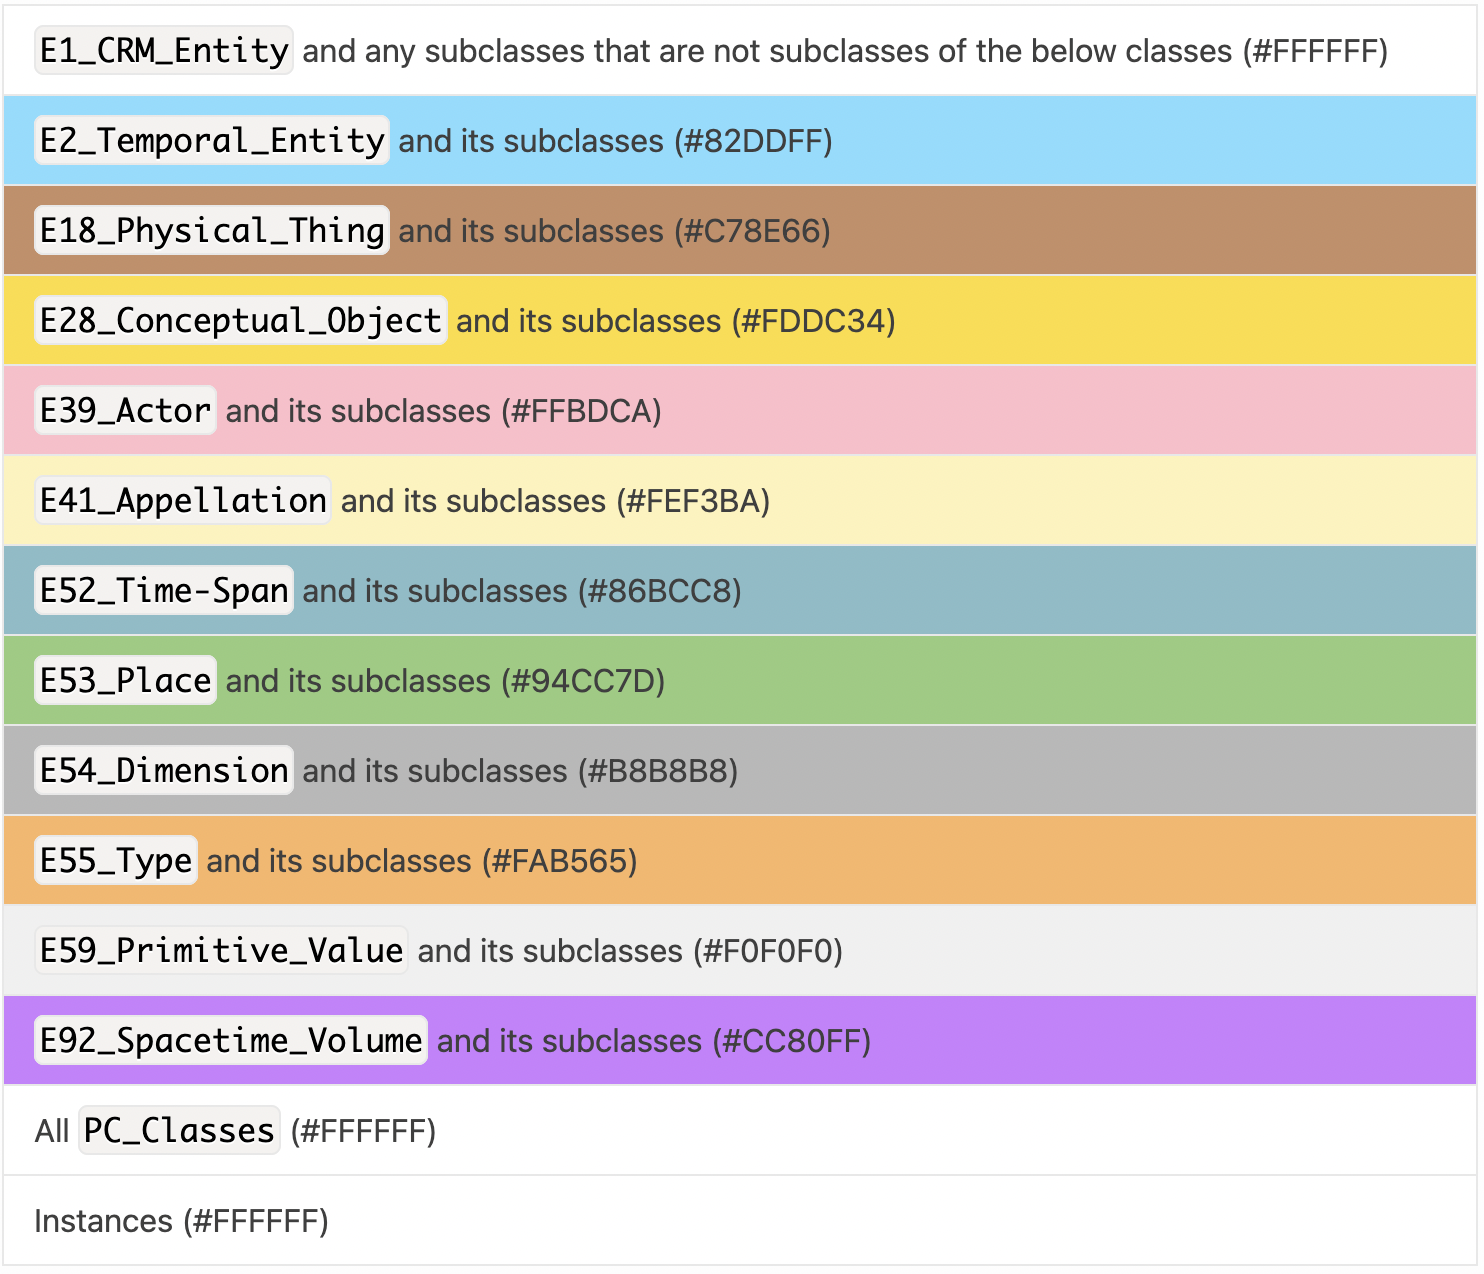
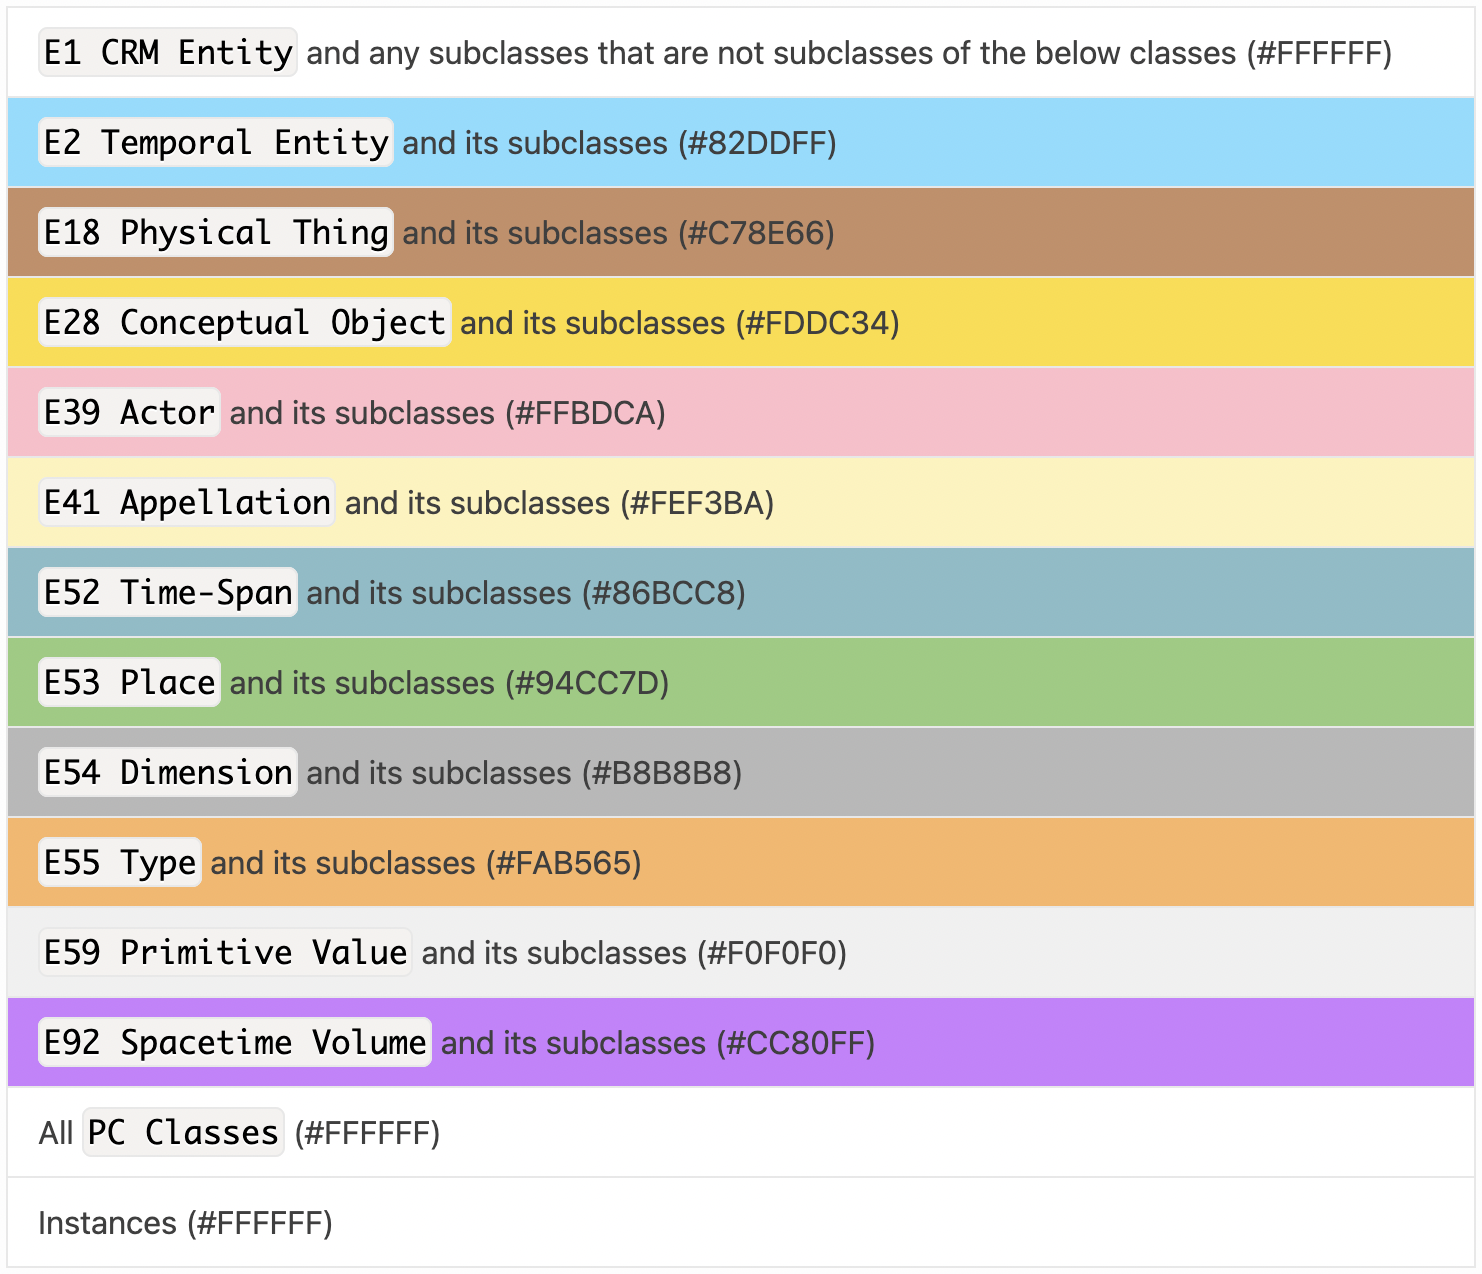
update readme

diff --git a/README.md b/README.md
@@ -32,7 +32,7 @@ An overview of diagrams.net libraries and instructions on how to use them.
 
 ## Context
 
-**[diagrams.net](https://www.diagrams.net/) libraries** is a collection of custom shape library files (.xml) of ontologies used to represent semantic patterns through [diagrams.net](https://www.diagrams.net/). It is maintained by the Canadian Heritage Information Network (CHIN) and used to generate diagrams in the context of its Linked Open Data projects. Currently, CHIN provides seven libraries for the following CIDOC CRM ontologies (i.e. the ones that are officially released in RDFS format). The libraries are of benefit to users who design diagrams for data models that are based on CIDOC CRM.
+**[diagrams.net](https://www.diagrams.net/) libraries** is a collection of custom shape library files (.xml) of ontologies used to represent semantic patterns through [diagrams.net](https://www.diagrams.net/). It is maintained by the Canadian Heritage Information Network (CHIN) and used to generate diagrams in the context of its Linked Open Data projects. Currently, CHIN provides eight libraries for the following CIDOC CRM ontologies (i.e. the ones that are officially released in RDFS format). The libraries are of benefit to users who design diagrams for data models that are based on CIDOC CRM.
 
   - CIDOC CRM base (version 7.1.3): includes two libraries, one with properties' quantification, and one without.
 
@@ -54,7 +54,7 @@ An overview of diagrams.net libraries and instructions on how to use them.
 
 A custom library is a set of pre-designed shapes that can be easily dragged and dropped in the drawing canvas to facilitate the drawing process. It is usually found on the left side panel of the diagrams.net editor.
 
-Each library contains the shapes of all the [classes](https://chin-rcip.github.io/collections-model/en/resources/current/glossary#class-noun) as well as the connectors for the [properties](https://chin-rcip.github.io/collections-model/en/resources/current/glossary#property-noun) of each ontology. The colour scheme (see below) is based on a proposal by George Bruseker for [CIDOC CRM](http://www.cidoc-crm.org/).
+Each library contains the shapes of all the [classes](https://chin-rcip.github.io/collections-model/en/resources/current/glossary#class-noun) as well as the connectors for the [properties](https://chin-rcip.github.io/collections-model/en/resources/current/glossary#property-noun) of each ontology. The colour scheme (see below) is based on a proposal by CIDOC CRM SIG for [CIDOC CRM](http://www.cidoc-crm.org/).
 
 ![](/images/color_en.png)
 
@@ -153,11 +153,92 @@ Once loaded, the library is usually cached by the browser, so there is no need t
 
 Each library contains two types of shapes:
 
-  - Rounded rectangle shapes for classes (each shape is filled with colour, per the colour scheme described above).
+1. Rounded rectangle shapes for classes (each shape is filled with colour, per the colour scheme described above).
 
-  - Black arrows for properties.
+    - Shape:
 
-Each shape has a label based on the CIDOC CRM naming convention, i.e. with an underscore after the entity’s code and between each string (`E2_Temporal_Entity`), and spaces in its title (E2 Temporal Entity) to facilitate the “**Search Shapes**” function located at the top of the left side panel.
+        - Rounded rectangle
+
+        - Border:
+
+            - solid 
+            
+            - black
+            
+            - 1 pt
+        
+        - Width: 140
+
+        - Height: 70 
+
+        - Fill: per the colour scheme described above
+
+    - Text:
+
+        - Font: Helvetica
+
+        - Size: 16
+
+        - Color: black
+
+        - Horizontal align: center
+
+        - Vertical align: middle
+
+        - Weight: bold
+
+        - Word wrap
+
+        - Value: entity name without underscore
+
+    - Data:
+
+        - URI
+        
+        - Labels in available languages
+        
+        - No scope note
+        
+        - Link (clickable)
+
+
+2. Black arrows for properties.
+
+    - Shape:
+
+        - One-way arrow
+
+        - Stroke width: 2 pt
+        
+        - Color: black
+
+    - Text:
+
+        - Font: Helvetica
+
+        - Size: 14
+
+        - Color: black
+
+        - Horizontal align: center
+
+        - Vertical align: middle
+
+        - Weight: bold
+
+        - Background color: white
+
+        - Value: entity name without underscore, quantifications
+
+    - Data:
+
+        - URI
+        
+        - Labels in available languages
+        
+        - No scope note
+        
+        - Link (clickable)
 
 ![](/images/diagrams_net_en_2.png)
 
@@ -234,7 +315,7 @@ Un aperçu des bibliothèques logicielles diagrams.net et explique comment les u
 
 ## Contexte
 
-Les bibliothèques [diagrams.net](https://www.diagrams.net/) constituent un ensemble de fichiers XML d’ontologies qui sert à représenter des patrons conceptuels à l’aide du logiciel [diagrams.net](https://www.diagrams.net/). Tenu à jour par le Réseau canadien d’information sur le patrimoine (RCIP), ces bibliothèques logicielles permettent de créer des diagrammes dans le cadre de projets de données ouvertes et liées. Le RCIP a jusqu’à maintenant créé sept bibliothèques destinées aux ontologies du Modèle conceptuel de référence du Comité international pour la Documentation (CIDOC CRM); celles-ci sont diffusées officiellement en format RDFS et répertoriées ci-dessous. Elles seront utiles aux utilisateurs qui créent des diagrammes de modèles de données fondés sur le CIDOC CRM.
+Les bibliothèques [diagrams.net](https://www.diagrams.net/) constituent un ensemble de fichiers XML d’ontologies qui sert à représenter des patrons conceptuels à l’aide du logiciel [diagrams.net](https://www.diagrams.net/). Tenu à jour par le Réseau canadien d’information sur le patrimoine (RCIP), ces bibliothèques logicielles permettent de créer des diagrammes dans le cadre de projets de données ouvertes et liées. Le RCIP a jusqu’à maintenant créé huit bibliothèques destinées aux ontologies du Modèle conceptuel de référence du Comité international pour la Documentation (CIDOC CRM); celles-ci sont diffusées officiellement en format RDFS et répertoriées ci-dessous. Elles seront utiles aux utilisateurs qui créent des diagrammes de modèles de données fondés sur le CIDOC CRM.
 
   - CIDOC CRM base (version 7.1.3) : comprend deux bibliothèques logicielles, une avec la quantification des propriétés et l'autre sans.
 
@@ -256,7 +337,7 @@ Les bibliothèques [diagrams.net](https://www.diagrams.net/) constituent un ense
 
 Une bibliothèque consiste en un ensemble de formes qu’on peut simplement glisser et déposer dans un diagramme pour en faciliter la création. Elle se trouve habituellement dans le volet gauche du logiciel diagrams.net.
 
-Chaque bibliothèque contient les formes de toutes les [classes](https://chin-rcip.github.io/collections-model/en/resources/current/glossary#class-noun) et les connecteurs correspondant aux [propriétés](https://chin-rcip.github.io/collections-model/en/resources/current/glossary#property-noun) de chaque ontologie. La palette de couleurs choisie (voir ci-dessous) est fondée sur une proposition de George Bruseker pour le [CIDOC CRM](http://www.cidoc-crm.org/) .
+Chaque bibliothèque contient les formes de toutes les [classes](https://chin-rcip.github.io/collections-model/en/resources/current/glossary#class-noun) et les connecteurs correspondant aux [propriétés](https://chin-rcip.github.io/collections-model/en/resources/current/glossary#property-noun) de chaque ontologie. La palette de couleurs choisie (voir ci-dessous) est fondée sur une proposition du CIDOC CRM SIG pour le [CIDOC CRM](http://www.cidoc-crm.org/) .
 
 ![](/images/color_fr.png)
 
@@ -356,11 +437,91 @@ Une fois chargée, la bibliothèque est habituellement gardée dans la mémoire 
 
 Les bibliothèques contiennent deux types de formes :
 
-  - des rectangles arrondis colorés selon la palette de couleurs décrite ci-dessus et qui représentent les classes;
+1. des rectangles arrondis colorés selon la palette de couleurs décrite ci-dessus et qui représentent les classes;
 
-  - des flèches noires qui représentent les propriétés.
+    - Shape:
 
-Chaque forme est étiquetée selon la nomenclature du CIDOC CRM, c’est-à-dire un caractère de soulignement après le code de l’entité et entre chaque mot, par exemple, « `E2_Temporal_Entity` ». Pour simplifier les recherches à l’aide du champ **Chercher des formes** dans la partie supérieure du volet de gauche, ces caractères de soulignement sont remplacés par des espaces dans le titre  : « E2 Temporal Entity ».
+        - Rounded rectangle
+
+        - Border:
+
+            - solid 
+            
+            - black
+            
+            - 1 pt
+        
+        - Width: 140
+
+        - Height: 70 
+
+        - Fill: per the colour scheme described above
+
+    - Text:
+
+        - Font: Helvetica
+
+        - Size: 16
+
+        - Color: black
+
+        - Horizontal align: center
+
+        - Vertical align: middle
+
+        - Weight: bold
+
+        - Word wrap
+
+        - Value: entity name without underscore
+
+    - Data:
+
+        - URI
+        
+        - Labels in available languages
+        
+        - No scope note
+        
+        - Link (clickable)
+
+2. des flèches noires qui représentent les propriétés.
+
+    - Shape:
+
+        - One-way arrow
+
+        - Stroke width: 2 pt
+        
+        - Color: black
+
+    - Text:
+
+        - Font: Helvetica
+
+        - Size: 14
+
+        - Color: black
+
+        - Horizontal align: center
+
+        - Vertical align: middle
+
+        - Weight: bold
+
+        - Background color: white
+
+        - Value: entity name without underscore, quantifications
+
+    - Data:
+
+        - URI
+        
+        - Labels in available languages
+        
+        - No scope note
+        
+        - Link (clickable)
 
 ![](/images/diagrams_net_fr_2.png)
 
